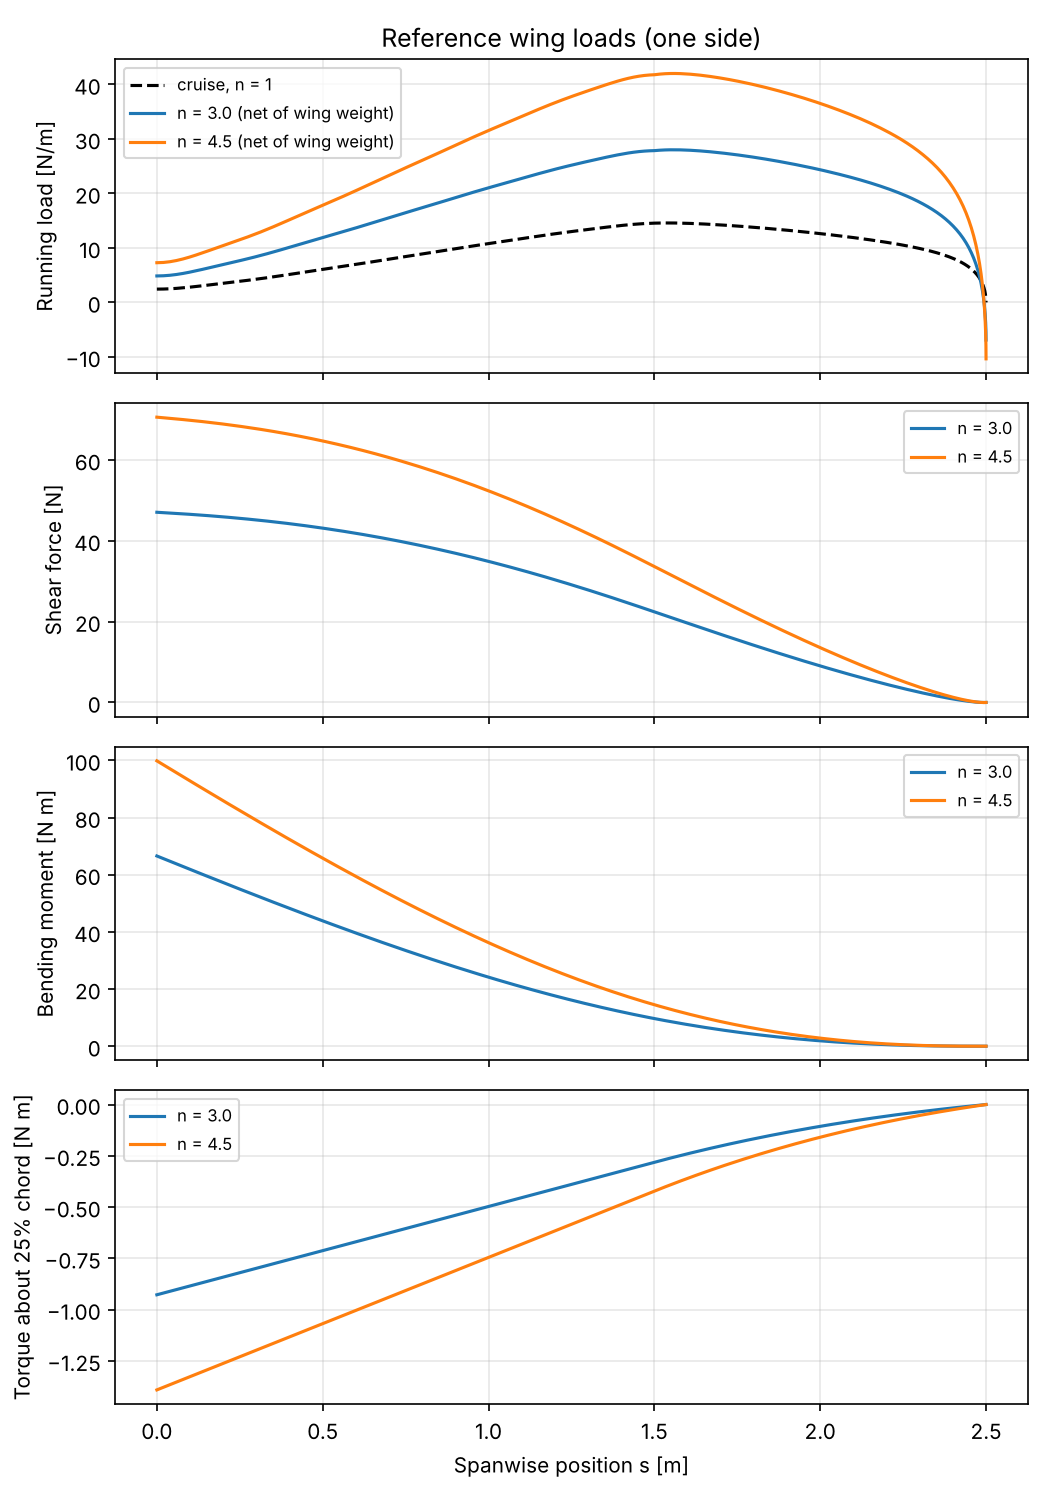
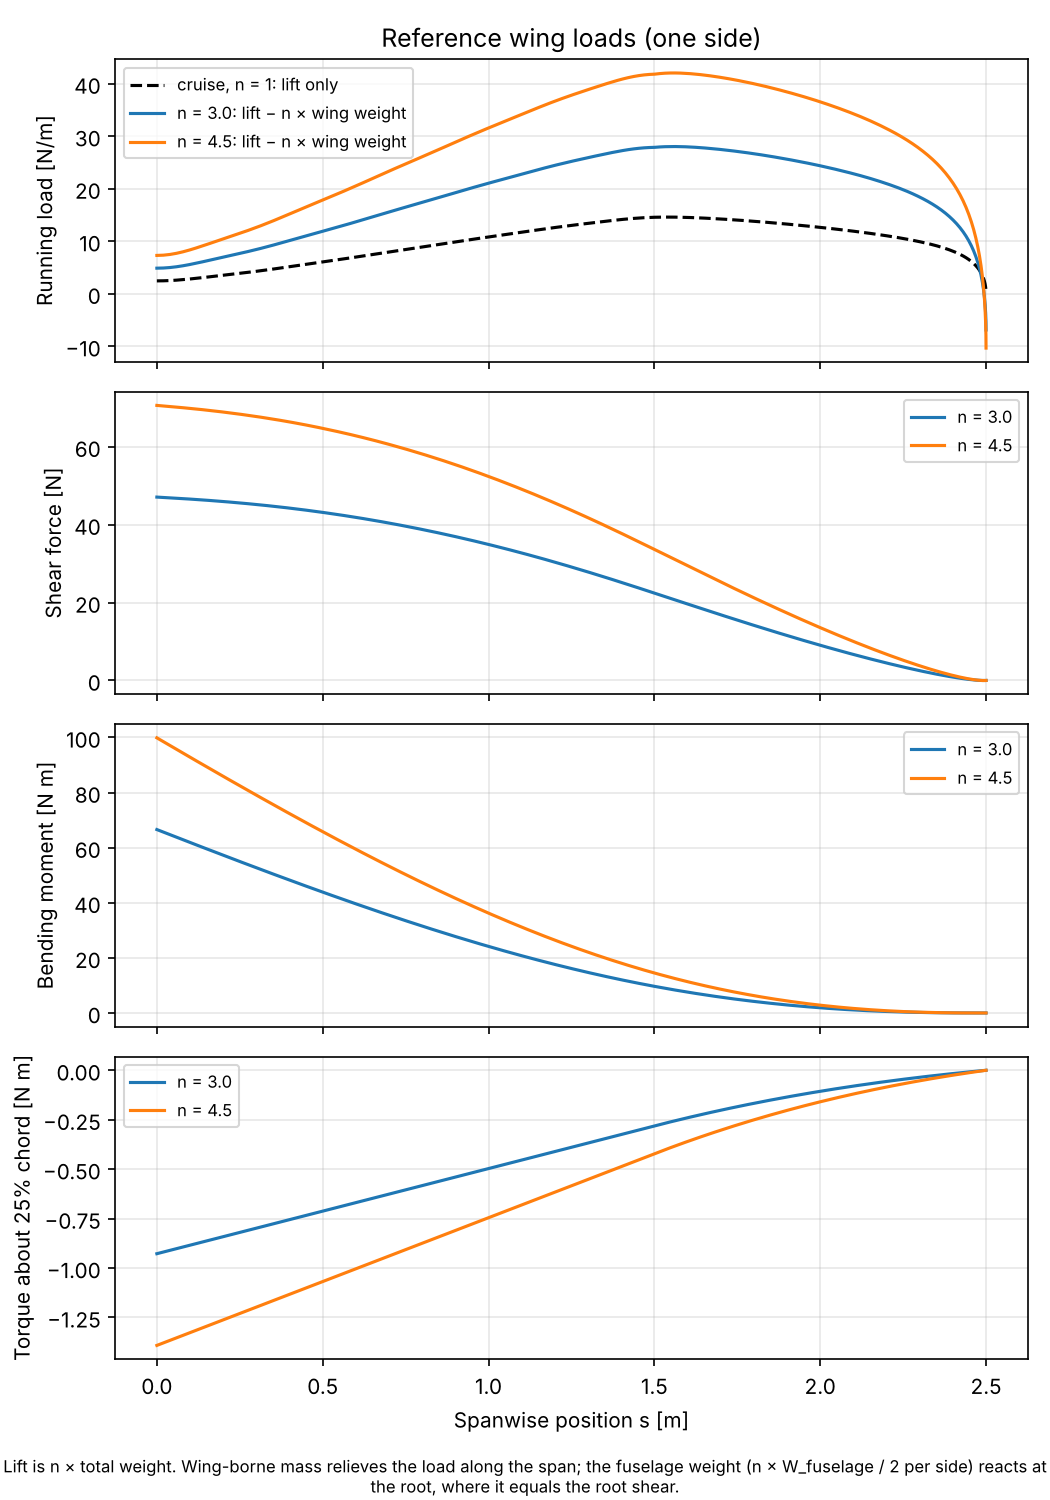
Clarify running-load labels on the wing loads plot
Label the curves as lift minus n x wing weight (cruise as lift only) and add
a note that lift is n x total weight, while the fuselage weight reacts at the
root and equals the root shear.

Claude-Session: https://claude.ai/code/session_016aSAuThaQobXj1aoX6VDsR

diff --git a/examples/reference_aircraft.py b/examples/reference_aircraft.py
@@ -123,10 +123,10 @@ def print_loads(cases) -> None:
 def plot_wing_loads(cruise, cases):
     """Four stacked plots against span: lift per span, shear, bending moment, torque."""
     fig, axes = plt.subplots(4, 1, figsize=(7, 10), sharex=True)
-    axes[0].plot(cruise.s_m, cruise.lift_per_span_N_m, "k--", label="cruise, n = 1")
+    axes[0].plot(cruise.s_m, cruise.lift_per_span_N_m, "k--", label="cruise, n = 1: lift only")
     for loads in (cases.limit, cases.ultimate):
         label = f"n = {loads.load_factor:.1f}"
-        axes[0].plot(loads.s_m, loads.net_load_per_span_N_m, label=f"{label} (net of wing weight)")
+        axes[0].plot(loads.s_m, loads.net_load_per_span_N_m, label=f"{label}: lift − n × wing weight")
         axes[1].plot(loads.s_m, loads.shear_force_N, label=label)
         axes[2].plot(loads.s_m, loads.bending_moment_N_m, label=label)
         axes[3].plot(loads.s_m, loads.torque_N_m, label=label)
@@ -139,7 +139,14 @@ def plot_wing_loads(cruise, cases):
         ax.legend(fontsize=8)
     axes[-1].set_xlabel("Spanwise position s [m]")
     axes[0].set_title("Reference wing loads (one side)")
-    fig.tight_layout()
+    fig.text(
+        0.5, 0.005,
+        "Lift is n × total weight. Wing-borne mass relieves the load along the span; "
+        "the fuselage weight (n × W_fuselage / 2 per side) reacts at the root, "
+        "where it equals the root shear.",
+        ha="center", fontsize=8, wrap=True,
+    )
+    fig.tight_layout(rect=(0, 0.03, 1, 1))
     return fig
 
 
